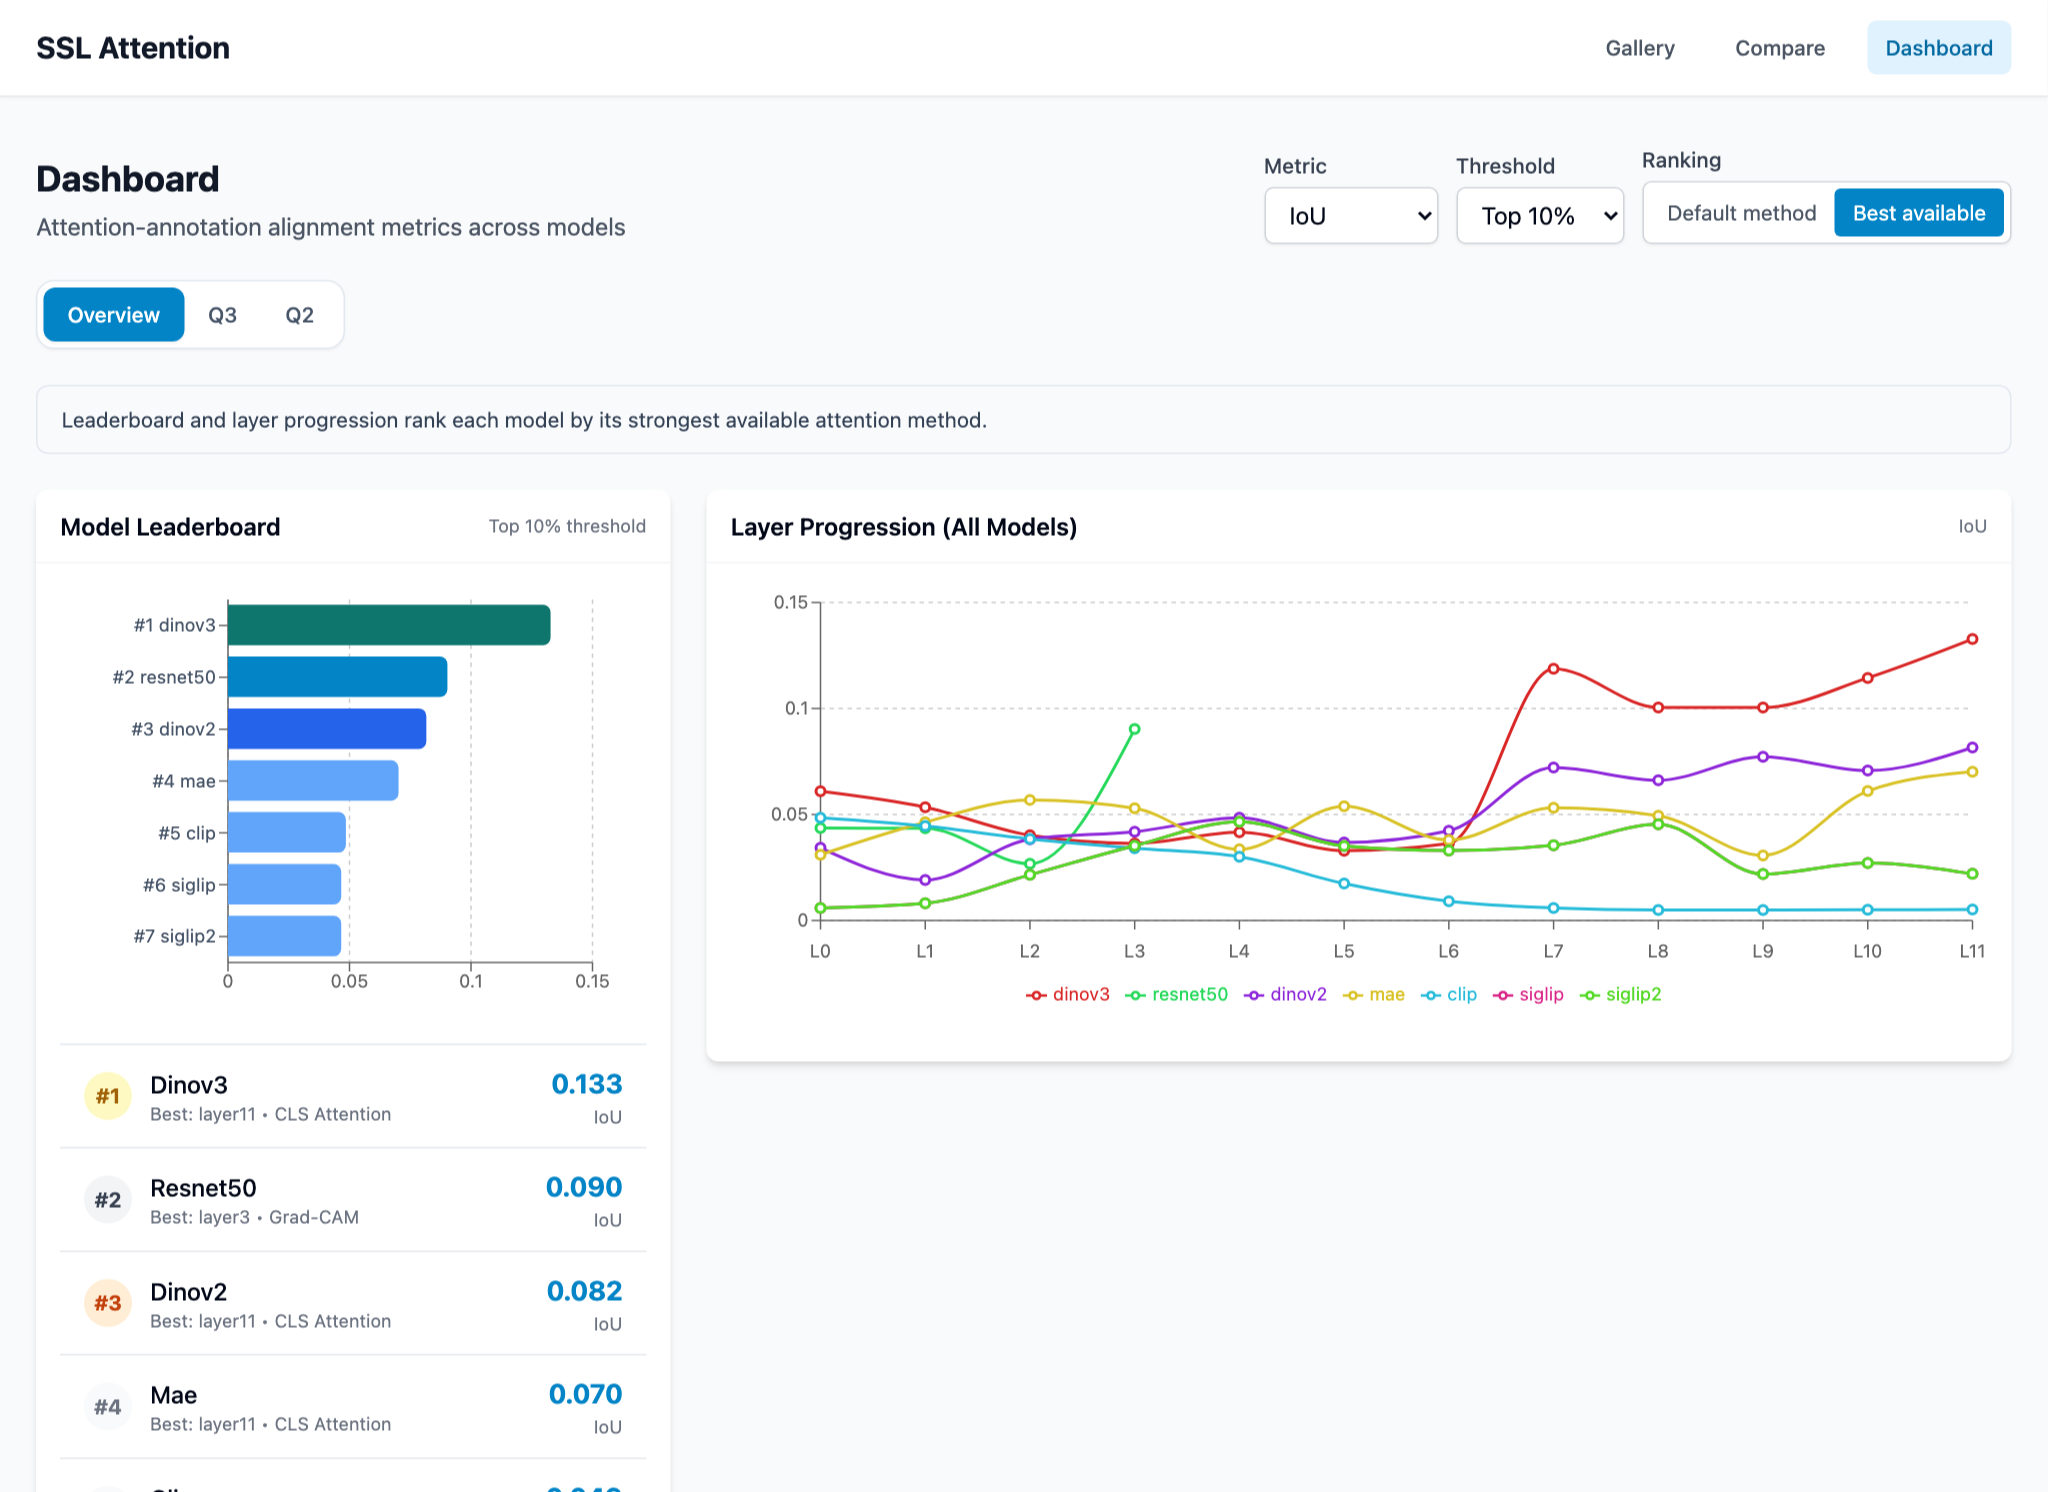
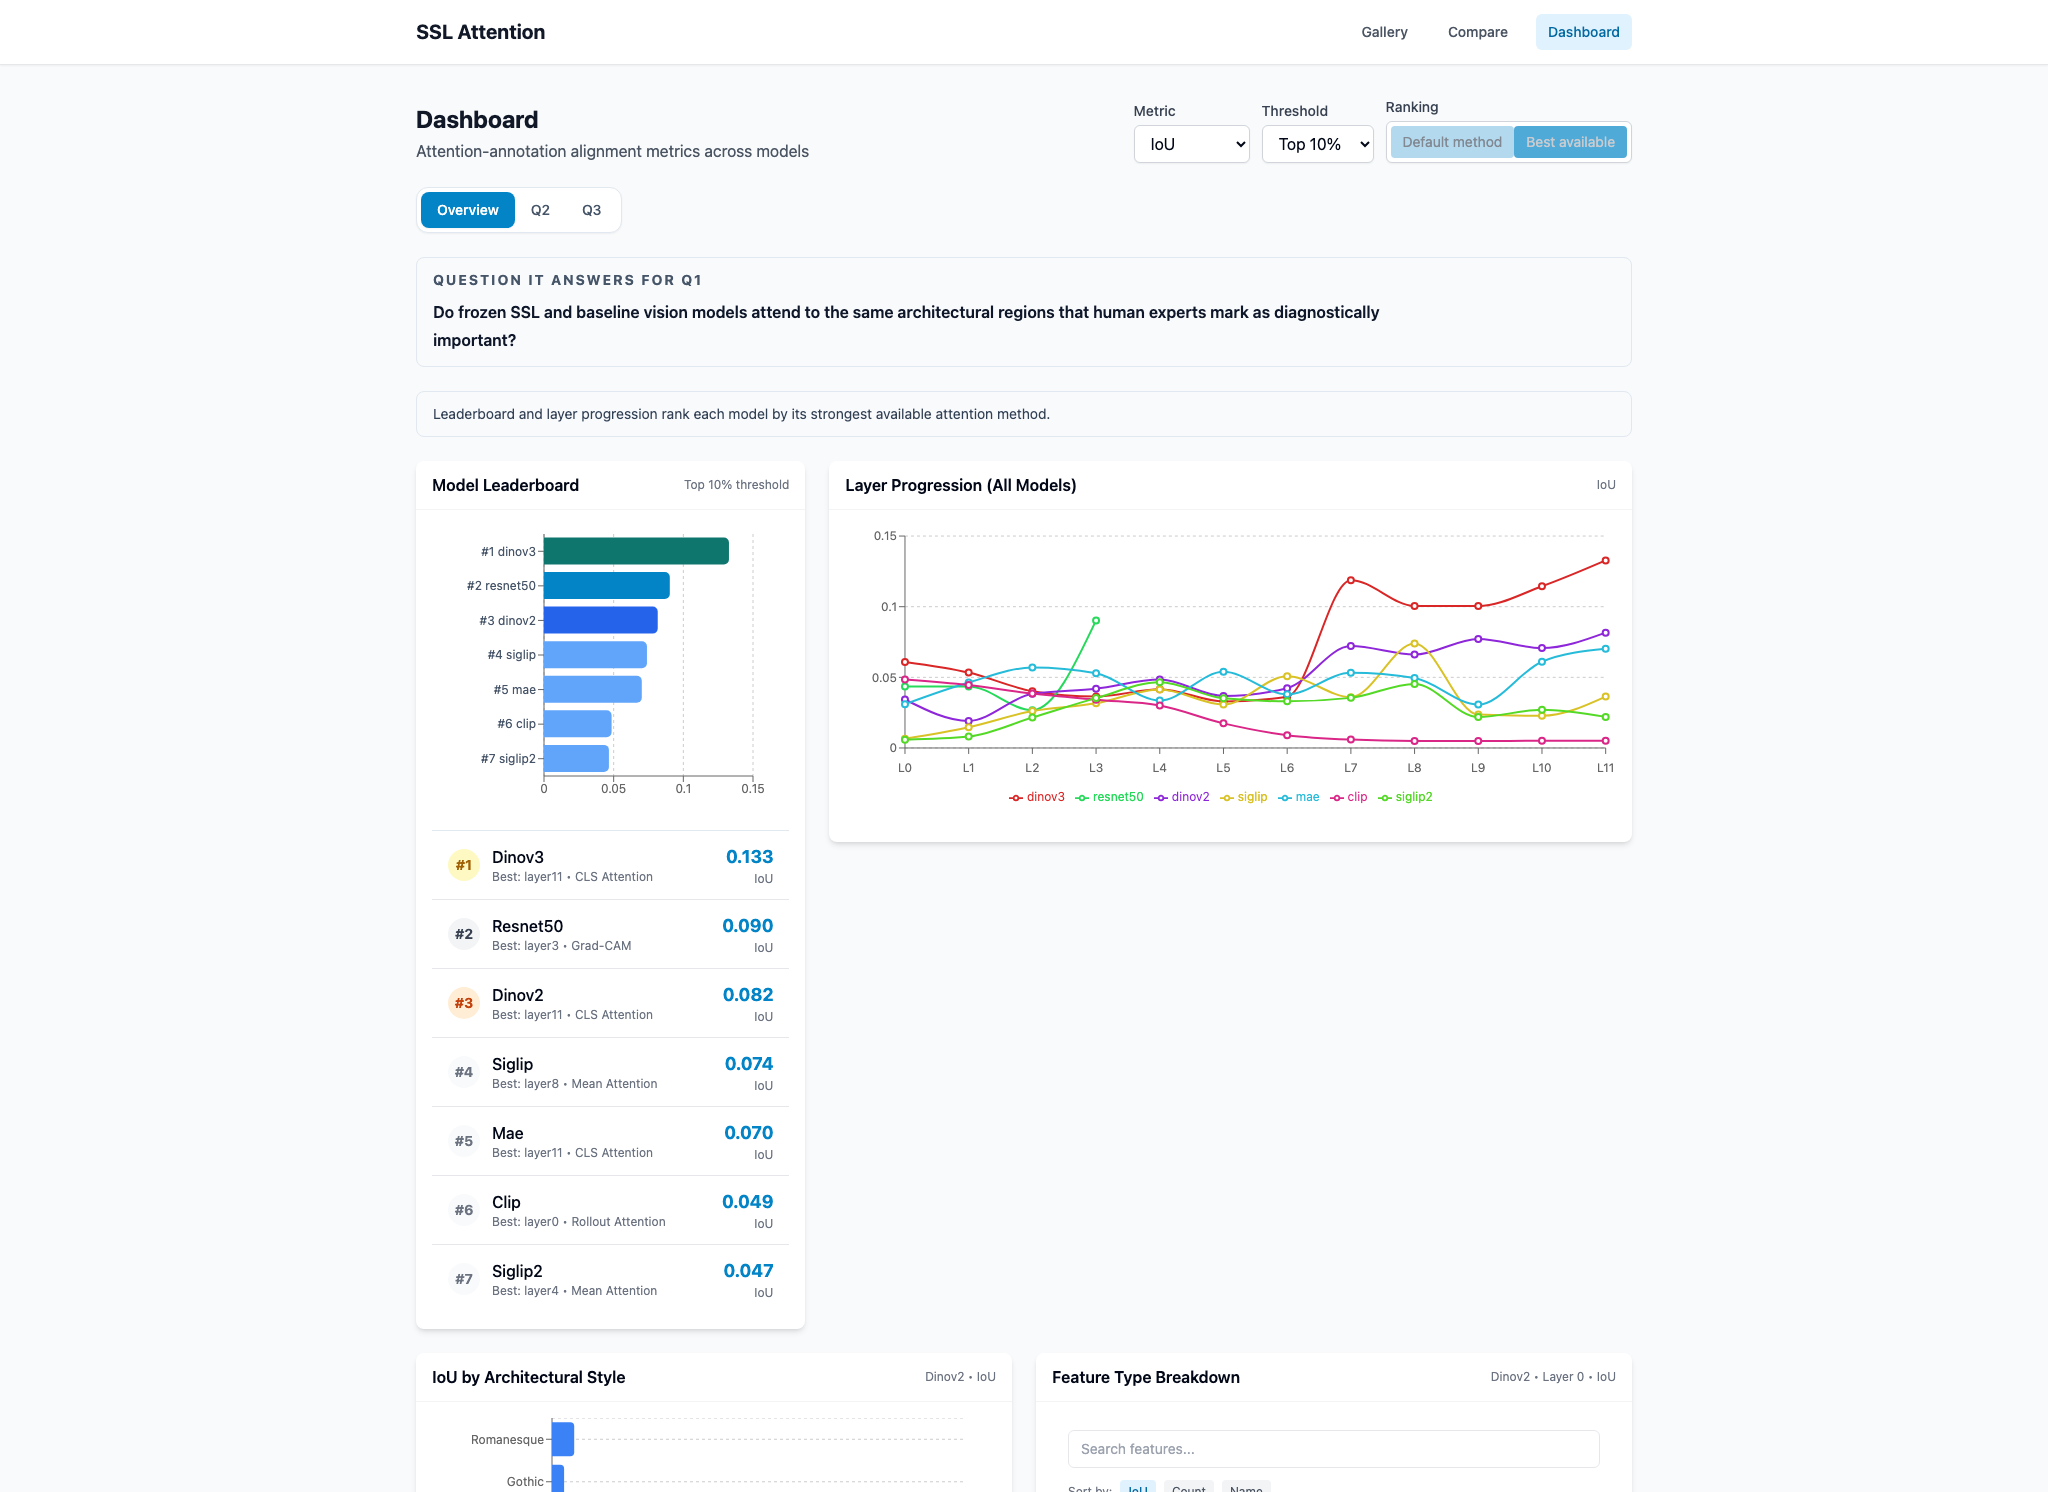
fix: regenerate SigLIP cache and propagate fix through report
Primary fix: SigLIP and SigLIP2 were byte-identical across every
layer and image in the cache, indicating the SigLIP loader had been
falling back to SigLIP2 weights. Re-extracted SigLIP attention with
the correct model loader; SigLIP now peaks at layer8 (IoU=0.0739,
rank 4), distinct from SigLIP2 at layer4 (IoU=0.0466, rank 7).

Downstream updates:
- Q1 leaderboard rows for SigLIP and SigLIP2 updated against
  regenerated metrics_summary.json and metrics.db
- Continuous baseline clearance recomputed for both variants
- Dashboard screenshot regenerated to show new rank order
- Abstract, §9.1 narrative, §9.2 Q2 discussion, §10.1, and §11
  updated to distinguish the two variants throughout
- §9.1 MSE column shows 5dp for SigLIP rows to disambiguate the
  near-tied values (0.01755 vs 0.01745)
- §9.2 narrative adds Cohen's d asymmetry note (SigLIP2 d=0.781
  vs SigLIP d=0.604, despite SigLIP2's lower absolute FT IoU)
- §6 disclosure paragraph added explaining Romanesque 51 vs 54
  count (proposal-level vs multi-label per-style artifact)

diff --git a/docs/core/project_report_final.md b/docs/core/project_report_final.md
@@ -11,9 +11,9 @@ The study is organized around three linked questions:
 2. How Linear Probe, LoRA, and Full fine-tuning change that alignment
 3. Whether individual attention heads exhibit descriptive specialization for different architectural features
 
-For Q1, frozen expert-aligned attention is present but highly model-family dependent: DINOv3 provides the strongest evidence, leading the default-method benchmark on `IoU@90`, Coverage, KL, and EMD, and uniquely clearing all calibrated continuous baselines across MSE, KL, and EMD, while the other frozen models show more partial or metric-specific alignment.
+For Q1, frozen expert-aligned attention is present but highly model-family dependent: DINOv3 provides the strongest evidence, leading the default-method benchmark on `IoU@90`, Coverage, KL, and EMD, and uniquely clearing all calibrated continuous baselines across MSE, KL, and EMD. Base SigLIP is a competitive overlap result at its best mean-attention layer, but SigLIP2 remains weaker on overlap despite having the lowest MSE; the two should not be collapsed into one family-level frozen result.
 
-The Q2 findings are that fine-tuning moves attention unevenly across families: CLIP gains the most (IoU 0.0181→0.0745, Cohen's d≈1.0) but its gains concentrate on prominent Gothic and Romanesque structures; MAE's largest single-style gain is on Renaissance, driven specifically by pediment geometry; and the DINO family preserves its already-strong frozen alignment. Models with different pretraining objectives converge on the same structurally easy images rather than covering complementary subsets, with DINOv3 frozen IoU predicting per-image CLIP Δ at Pearson r=+0.677.
+The Q2 findings are that fine-tuning moves attention unevenly across families: CLIP gains the most (IoU 0.0181→0.0745, Cohen's d≈1.0) but its gains concentrate on prominent Gothic and Romanesque structures; MAE's largest single-style gain is on Renaissance, driven specifically by pediment geometry; the SigLIP variants improve from weaker layer-11 baselines; and the DINO family preserves its already-strong frozen alignment. Models with different pretraining objectives converge on the same structurally easy images rather than covering complementary subsets, with DINOv3 frozen IoU predicting per-image CLIP Δ at Pearson r=+0.677.
 
 For Q3, the per-head analysis suggests sparse descriptive specialization rather than uniform head behavior: DINO-family dominant heads remain stable across adaptation, MAE is partly reshaped, and CLIP reorganizes from earlier frozen attention toward later adapted heads, with the clearest feature alignment appearing on larger architectural structures such as portals, arches, and rose windows. Overall, the project contributes a calibrated way to test whether model attention is spatially compatible with expert evidence, not a claim that attention maps prove expert-like reasoning.
 
@@ -97,6 +97,8 @@ The primary dataset is WikiChurches, a fine-grained architectural-style dataset 
 The report uses two related data scopes. The first is the annotated subset used for attention-alignment evaluation: 139 images with 631 expert bounding boxes. The second is the larger style-labeled pool derived from `churches.json`, which supports linear-probe and fine-tuning experiments. The root documentation cites 9,485 images in the official WikiChurches release. The implementation also documents that a local mirror may expose a slightly different raw file count, but the analysis anchors its description to the official release and to the 139-image expert-annotated subset that defines the alignment benchmark.
 
 The annotation file `building_parts.json` defines an ontology of 106 feature types and stores bounding boxes in normalized `left`, `top`, `width`, `height` coordinates. The code clamps negative left or top coordinates to zero, converts boxes into pixel masks at the target heatmap resolution, and combines multiple boxes per image into a union mask for the primary image-level IoU and Coverage calculations. The project proposal documents the annotated style distribution as Romanesque 51, Gothic 49, Renaissance 22, and Baroque 17, and the implementation maps the corresponding Wikidata style IDs into the working style-classification labels used for training and evaluation.
+
+One count mismatch is intentional. The proposal-level summary lists 51 Romanesque annotated images, while the Q2 per-style artifact reports Romanesque `n=54` because `experiments/scripts/analyze_style_breakdown.py` groups each evaluation image under every mapped style tag in `building_parts.json`. The Q2 per-style rows therefore count style assignments rather than mutually exclusive images, so the displayed style counts can sum above the 139-image evaluation set. The report uses the artifact-level counts in §9.2.1 because those are the exact groups used to compute the reported per-style deltas.
 
 The preprocessing strategy keeps the annotated evaluation images out of the primary fine-tuning train and validation splits. This separation matters because Q2 asks how adaptation changes attention on the same expert-annotated pool, so those images remain evaluation-only in the primary experiment path. For the attention pipeline, the project uses model-appropriate image preprocessing and generates standardized heatmaps at the app's working resolution for metric computation and visualization.
 
@@ -220,12 +222,12 @@ The table below uses the default-method Q1 ranking semantics from `outputs/cache
 | 1 | `dinov3` | Self-distillation with Gram anchoring | `cls` | 0.1327 (layer11) | 0.1373 (layer11) | 0.0270 (layer0) | 2.3247 (layer11) | 0.2600 (layer11) | MSE 4/4; KL 4/4; EMD 4/4 |
 | 2 | `resnet50` | Supervised CNN baseline | `gradcam` | 0.0903 (layer3) | 0.1043 (layer3) | 0.0242 (layer2) | 2.6917 (layer3) | 0.3025 (layer3) | MSE 4/4; KL 2/4; EMD 2/4 |
 | 3 | `dinov2` | Self-distillation | `cls` | 0.0816 (layer11) | 0.1004 (layer11) | 0.0209 (layer0) | 2.6842 (layer11) | 0.2978 (layer11) | MSE 4/4; KL 2/4; EMD 2/4 |
-| 4 | `mae` | Masked autoencoding | `cls` | 0.0702 (layer11) | 0.0904 (layer11) | 0.0483 (layer3) | 2.7562 (layer10) | 0.3177 (layer10) | MSE 3/4; KL 2/4; EMD 1/4 |
-| 5 | `clip` | Language-image contrastive pretraining | `cls` | 0.0485 (layer0) | 0.0851 (layer0) | 0.0211 (layer6) | 2.9122 (layer0) | 0.3261 (layer0) | MSE 4/4; KL 2/4; EMD 1/4 |
-| 6 | `siglip` | Sigmoid language-image contrastive pretraining | `mean` | 0.0466 (layer4) | 0.0705 (layer4) | 0.0175 (layer6) | 3.0710 (layer4) | 0.3538 (layer4) | MSE 4/4; KL 2/4; EMD 0/4 |
-| 7 | `siglip2` | Sigmoid contrastive pretraining with denser grounding components | `mean` | 0.0466 (layer4) | 0.0705 (layer4) | 0.0175 (layer6) | 3.0710 (layer4) | 0.3538 (layer4) | MSE 4/4; KL 2/4; EMD 0/4 |
+| 4 | `siglip` | Sigmoid language-image contrastive pretraining | `mean` | 0.0739 (layer8) | 0.0759 (layer4) | 0.01755 (layer6) | 3.0020 (layer4) | 0.3476 (layer4) | MSE 4/4; KL 2/4; EMD 0/4 |
+| 5 | `mae` | Masked autoencoding | `cls` | 0.0702 (layer11) | 0.0904 (layer11) | 0.0483 (layer3) | 2.7562 (layer10) | 0.3177 (layer10) | MSE 3/4; KL 2/4; EMD 1/4 |
+| 6 | `clip` | Language-image contrastive pretraining | `cls` | 0.0485 (layer0) | 0.0851 (layer0) | 0.0211 (layer6) | 2.9122 (layer0) | 0.3261 (layer0) | MSE 4/4; KL 2/4; EMD 1/4 |
+| 7 | `siglip2` | Sigmoid contrastive pretraining with denser grounding components | `mean` | 0.0466 (layer4) | 0.0705 (layer4) | 0.01745 (layer6) | 3.0710 (layer4) | 0.3538 (layer4) | MSE 4/4; KL 2/4; EMD 0/4 |
 
-Under that more demanding benchmark, DINOv3 is the cleanest Q1 result. It leads the default-method leaderboard on `IoU@90`, Coverage, KL, and EMD. It does not win MSE, where the SigLIP family scores lowest, but that is exactly why the benchmark cannot collapse to one number. The calibrated Q1 analysis shows that DINOv3 is the only model that beats all four naive baselines on all three continuous metrics when each metric is evaluated at that model's best default-method layer. In other words, DINOv3 is not just winning the most convenient metric; it is the model whose alignment survives the broadest set of checks.
+Under that more demanding benchmark, DINOv3 is the cleanest Q1 result. It leads the default-method leaderboard on `IoU@90`, Coverage, KL, and EMD. It does not win MSE, where the extra displayed precision shows SigLIP2 marginally lower than base SigLIP (`0.01745` versus `0.01755`), but that is exactly why the benchmark cannot collapse to one number. The SigLIP rows also show that `siglip` and `siglip2` should not be treated as interchangeable: base SigLIP reaches a competitive `IoU@90` peak of `0.0739` at `layer8`, ahead of MAE and CLIP, while SigLIP2 remains weaker on sharp overlap despite its slightly lower MSE. The calibrated Q1 analysis still shows that DINOv3 is the only model that beats all four naive baselines on all three continuous metrics when each metric is evaluated at that model's best default-method layer. In other words, DINOv3 is not just winning the most convenient metric; it is the model whose alignment survives the broadest set of checks.
 
 #### Gram Anchoring
 
@@ -237,7 +239,7 @@ The dashboard view below shows the same headline pattern in the app's best-avail
 
 ![Local React dashboard screenshot showing DINOv3 ranked first on the IoU best-available leaderboard](assets/q1_dinov3_react_dashboard_iou_best_available.png)
 
-*Figure. Local React app screenshot from `/dashboard` Overview for the `IoU@90` leaderboard. With `Metric = IoU`, `Threshold = Top 10%`, and `Ranking = Best available`, DINOv3 ranks first with IoU = 0.133 at layer11 using CLS attention. The layer-progression panel shows DINOv3's late-layer jump relative to the other models, while the leaderboard ranks each model by its strongest available attention method.*
+*Figure. Local React app screenshot from `/dashboard` Overview for the `IoU@90` leaderboard. With `Metric = IoU`, `Threshold = Top 10%`, and `Ranking = Best available`, DINOv3 ranks first with IoU = 0.133 at layer11 using CLS attention. The leaderboard also shows base SigLIP at rank 4 with IoU = 0.074 at layer8, separated from SigLIP2 at rank 7. The layer-progression panel shows DINOv3's late-layer jump relative to the other models, while the leaderboard ranks each model by its strongest available attention method.*
 
 Two further checks test whether DINOv3's lead is both statistically stable and spatially interpretable:
 
@@ -261,13 +263,13 @@ The multi-metric improvement heatmap compresses the full strategy comparison int
 
 ![Q2 multi-metric improvement heatmap](https://raw.githubusercontent.com/DesmondChoy/ssl_wikichurches/main/outputs/figures/02_all_metrics_improvement_heatmap.png)
 
-*Figure. Sign-normalized Q2 metric deltas for each model and strategy. Blue denotes improvement, red denotes degradation, and asterisks denote significance. The strongest positive clusters appear in CLIP, MAE, and the SigLIP family, while Linear Probe remains at zero by construction.*
+*Figure. Sign-normalized Q2 metric deltas for each model and strategy. Blue denotes improvement, red denotes degradation, and asterisks denote significance. The strongest positive clusters appear in CLIP, MAE, and the SigLIP variants, while Linear Probe remains at zero by construction.*
 
 The most dramatic improvement appears in CLIP. Full fine-tuning raises CLIP's `IoU@90` from `0.0181` to `0.0745` and raises Coverage from `0.0510` to `0.1047`, while also decreasing KL from `3.6873` to `2.6967` and EMD from `0.4096` to `0.3071`. LoRA also improves CLIP substantially, but not as strongly as Full fine-tuning. On WikiChurches, that pattern is meaningful because the diagnostic evidence is not a generic whole-object foreground but a set of localized architectural parts such as portals, arches, towers, and facade details. A model whose frozen attention is comparatively diffuse or global can therefore gain a great deal once the style-classification objective pushes it toward those expert-marked structures. In that sense, CLIP is not just "improving"; it is being retargeted from a weaker frozen spatial prior toward the kind of localized evidence this dataset rewards. That reading is consistent with prior work such as Walmer et al., which shows that supervision regime affects how vision transformers distribute attention.
 
-MAE and the SigLIP family also show meaningful improvements under LoRA and Full fine-tuning, but for reasons that appear slightly different. For MAE, both strategies improve `IoU@90`, Coverage, KL, and EMD, with LoRA producing a particularly strong MSE reduction in the saved artifact. That fits the broader intuition from MAE-style pretraining that reconstruction objectives preserve broad contextual information but do not inherently force the model to privilege the specific regions that experts use for fine-grained style discrimination. For `siglip` and `siglip2`, LoRA and Full both improve `IoU@90`, Coverage, KL, and EMD, though the absolute frozen baseline remains weaker than the DINO-family models on the overlap metrics. A plausible interpretation is that contrastive and multilingual contrastive objectives provide strong semantic features while still leaving substantial room for downstream supervision to sharpen where attention lands inside a structured scene. By contrast, the DINO family is more stable. DINOv2 stays close to preserve across most reported metrics, while DINOv3 largely preserves its strong frozen IoU but shows some threshold-free degradation under certain adapted variants.
+MAE and the SigLIP variants also show meaningful improvements under LoRA and Full fine-tuning, but for reasons that appear slightly different. For MAE, both strategies improve `IoU@90`, Coverage, KL, and EMD, with LoRA producing a particularly strong MSE reduction in the saved artifact. That fits the broader intuition from MAE-style pretraining that reconstruction objectives preserve broad contextual information but do not inherently force the model to privilege the specific regions that experts use for fine-grained style discrimination. For `siglip` and `siglip2`, LoRA and Full both improve `IoU@90`, Coverage, KL, and EMD, though the Q2 analyzed layer (`layer11`) starts from weaker frozen overlap baselines than the DINO family (`0.0364` for `siglip`, `0.0220` for `siglip2`). That is not the same as the Q1 best-layer story, where base SigLIP has a stronger `layer8` peak; it means adaptation is sharpening a relatively weak late-layer signal rather than improving each model's best frozen layer. The SigLIP2 row is a small but useful variant-specific clue: Full fine-tuning still leaves base SigLIP higher in absolute `IoU@90` (`0.0618` versus `0.0519`), but SigLIP2 moves further in standardized-effect terms (`Δ=0.0299`, Cohen's d=`0.781`, versus SigLIP's `Δ=0.0254`, d=`0.604`), consistent with more late-layer adaptation headroom from its weaker starting point and denser grounding components. A plausible interpretation is that sigmoid contrastive pretraining provides strong semantic features while still leaving substantial room for downstream supervision to sharpen where attention lands inside a structured scene. By contrast, the DINO family is more stable. DINOv2 stays close to preserve across most reported metrics, while DINOv3 largely preserves its strong frozen IoU but shows some threshold-free degradation under certain adapted variants.
 
-That divergence is where the paper can say something more specific than "fine-tuning helps some models more than others." On this dataset, self-distillation-based models appear to begin with stronger frozen spatial coherence on expert-marked architectural evidence, while MAE-, CLIP-, and SigLIP-family models appear to benefit more from a task objective that reweights attention toward style-diagnostic parts. That interpretation is consistent with Caron et al. on emergent object-like attention in DINO and with Park et al. on how different self-supervised objectives produce different attention behavior. It also fits the fine-tuning comparison literature: LoRA often captures a substantial share of the improvement without the largest possible shift, while Full fine-tuning has more capacity to help but also more capacity to disturb an already strong frozen spatial prior. Substantively, Q2 is therefore not only about whether alignment rises, but about which combinations of pretraining objective and adaptation method are most compatible with expert-grounded evidence use in a fine-grained architectural domain.
+That divergence is where the paper can say something more specific than "fine-tuning helps some models more than others." On this dataset, self-distillation-based models appear to begin with stronger frozen spatial coherence on expert-marked architectural evidence, while MAE, CLIP, and the SigLIP variants appear to benefit more from a task objective that reweights attention toward style-diagnostic parts. That interpretation is consistent with Caron et al. on emergent object-like attention in DINO and with Park et al. on how different self-supervised objectives produce different attention behavior. It also fits the fine-tuning comparison literature: LoRA often captures a substantial share of the improvement without the largest possible shift, while Full fine-tuning has more capacity to help but also more capacity to disturb an already strong frozen spatial prior. Substantively, Q2 is therefore not only about whether alignment rises, but about which combinations of pretraining objective and adaptation method are most compatible with expert-grounded evidence use in a fine-grained architectural domain.
 
 The preserve/enhance/destroy framing is useful but must be reported carefully. Across the `72` non-linear-probe model-strategy-metric-view combinations shown in the summary figure (`6` models × `2` strategies × `6` metric views), the outcome split is `46` enhance, `16` preserve, and `10` destroy. The six views are `IoU@90`, `IoU@50`, Coverage, MSE, KL, and EMD.
 
@@ -342,7 +344,7 @@ The per-style table invites a second question: are different models improving on
 
 Across the 139 annotated images, DINOv3 frozen IoU predicts CLIP Δ IoU at Pearson r=+0.677 (Spearman ρ=+0.681, both p<0.0001). That is a large effect on a modest sample, and it reframes what CLIP's fine-tuning is doing. The images CLIP "gains" on are not a CLIP-specific niche; they are the images whose expert annotations cover visually prominent, spatially compact regions — regions that any spatially-sensitive model (frozen DINOv3 or fine-tuned CLIP) can align to given the right training signal. The structural barrier is the image, not the model family. Appendix B illustrates this concretely with four representative examples — two structurally easy and two structurally hard — showing the DINOv3 frozen attention heatmap alongside the CLIP frozen-vs-fine-tuned shift map for each.
 
-Extending this to all pairwise per-image Δ correlations produces three clusters. The language cluster — CLIP, SigLIP, SigLIP2 — shows within-cluster correlations of roughly r=0.43–0.58, consistent with these three models sharing the same frozen deficiency (no patch-level spatial pressure during pretraining) and therefore improving on the same images when adaptation supplies spatial signal. MAE is anti-correlated with the language cluster at r≈−0.22 to −0.31, which is consistent with MAE's Renaissance pediment finding: its improvements target a different image subset (Renaissance geometry) rather than the Gothic/Romanesque portals the language cluster responds to. The DINO pair (DINOv2, DINOv3) correlates weakly with each other (r=0.33) and near zero with the language cluster, which is consistent with their Δ being essentially zero everywhere — there is nothing for a correlation to latch onto.
+Extending this to all pairwise per-image Δ correlations produces three clusters. The language cluster — CLIP, SigLIP, SigLIP2 — shows within-cluster correlations of roughly r=0.43–0.58, consistent with these three models improving on overlapping image subsets when adaptation supplies spatial signal. This is a Q2 layer-11 statement rather than a claim that their best frozen layers are equivalent; Q1 separates base SigLIP's stronger `layer8` overlap peak from SigLIP2's weaker `layer4` peak. MAE is anti-correlated with the language cluster at r≈−0.22 to −0.31, which is consistent with MAE's Renaissance pediment finding: its improvements target a different image subset (Renaissance geometry) rather than the Gothic/Romanesque portals the language cluster responds to. The DINO pair (DINOv2, DINOv3) correlates weakly with each other (r=0.33) and near zero with the language cluster, which is consistent with their Δ being essentially zero everywhere — there is nothing for a correlation to latch onto.
 
 The substantive reading is that models with different pretraining objectives converge on the same structurally easy images rather than specializing on complementary subsets. MAE is the single exception, and it covers a disjoint part of the dataset. This is a meaningful finding beyond the aggregate Δ story: it tells the reader that the "hard" images are hard for most of these models in the same way, and that an ensemble of language-cluster and DINO models would be unlikely to add coverage on the hard subset.
 
@@ -447,7 +449,7 @@ The analysis shows that expert alignment depends on the interaction between thre
 
 The clearest cross-question pattern is that models with stronger frozen spatial priors have less room to improve under fine-tuning. DINOv3 is the strongest Q1 case: it leads the default-method benchmark on `IoU@90`, Coverage, KL, and EMD, clears all calibrated continuous baselines, and stays separated from the next-best model in paired comparisons. That result fits the design logic of DINOv3, where [Siméoni et al.](https://arxiv.org/abs/2508.10104) explicitly target dense-feature preservation through Gram anchoring. In this project, the practical effect is not that DINOv3 recognizes every architectural detail, but that its frozen attention already lands well on large, coherent structures such as portals and rose-window-scale features.
 
-CLIP and MAE behave differently. CLIP's global image-text contrastive objective, introduced by [Radford et al.](https://arxiv.org/abs/2103.00020), is not trained with direct patch-level localization pressure. That helps explain why frozen CLIP begins with weak alignment but gains sharply after full fine-tuning, especially on Romanesque and Gothic examples where style evidence is carried by visually prominent named structures. MAE, by contrast, follows the masked-reconstruction setup of [He et al.](https://arxiv.org/abs/2111.06377), and its largest gain appears on Renaissance pediment geometry rather than on the same image subset as the language-image models. The point is not that one pretraining family is universally better. The point is that each family arrives with a different spatial bias, and fine-tuning has the largest effect when that bias does not already match the expert evidence in WikiChurches.
+CLIP and MAE behave differently. CLIP's global image-text contrastive objective, introduced by [Radford et al.](https://arxiv.org/abs/2103.00020), is not trained with direct patch-level localization pressure. That helps explain why frozen CLIP begins with weak alignment but gains sharply after full fine-tuning, especially on Romanesque and Gothic examples where style evidence is carried by visually prominent named structures. MAE, by contrast, follows the masked-reconstruction setup of [He et al.](https://arxiv.org/abs/2111.06377), and its largest gain appears on Renaissance pediment geometry rather than on the same image subset as the language-image models. The SigLIP variants sit between these stories: base SigLIP has a competitive best-layer frozen overlap peak, but both SigLIP variants still have weak late-layer Q2 baselines and improve under adaptation. The point is not that one pretraining family is universally better. The point is that each family arrives with a different spatial bias, and fine-tuning has the largest effect when that bias does not already match the expert evidence in WikiChurches.
 
 Linear Probe is the useful control in this story. Because the backbone stays frozen, the attention metrics stay unchanged. That result is mundane in the best possible way: it confirms that Q2 is measuring representation movement, not a reporting artifact from changing only the classifier head.
 
@@ -469,7 +471,7 @@ Q3 adds one final implication: expert-aligned attention is sparse. The strongest
 
 ## 11. Conclusion
 
-This project asked whether self-supervised vision models attend to the same architectural evidence that human experts mark as diagnostically important. The answer is conditional rather than universal. Using WikiChurches, expert bounding boxes, and a multi-metric alignment framework, the results show that expert-aligned attention depends on the interaction between pretraining objective, adaptation method, and feature geometry. DINOv3 provides the strongest frozen alignment evidence, leading the default-method benchmark on four of five metrics and uniquely clearing all calibrated continuous baselines. CLIP and MAE both gain under full fine-tuning, but redirect attention toward different evidence: CLIP toward prominent Gothic and Romanesque structures, and MAE toward compact Renaissance pediment geometry. Across families, those gains concentrate on structurally easy images rather than complementary subsets. Within the strongest models, the aligned signal concentrates in a small number of heads rather than distributing evenly across the transformer.
+This project asked whether self-supervised vision models attend to the same architectural evidence that human experts mark as diagnostically important. The answer is conditional rather than universal. Using WikiChurches, expert bounding boxes, and a multi-metric alignment framework, the results show that expert-aligned attention depends on the interaction between pretraining objective, adaptation method, and feature geometry. DINOv3 provides the strongest frozen alignment evidence, leading the default-method benchmark on four of five metrics and uniquely clearing all calibrated continuous baselines. Base SigLIP is a stronger frozen overlap result than SigLIP2, but both variants still have late-layer adaptation headroom. CLIP and MAE both gain under full fine-tuning, but redirect attention toward different evidence: CLIP toward prominent Gothic and Romanesque structures, and MAE toward compact Renaissance pediment geometry. Across families, those gains concentrate on structurally easy images rather than complementary subsets. Within the strongest models, the aligned signal concentrates in a small number of heads rather than distributing evenly across the transformer.
 
 The project therefore contributes a calibrated way to test whether model attention is spatially compatible with expert evidence, not a claim that attention maps prove expert-like reasoning. The remaining limits are important: the annotated set is small at 139 images, the boxes are diagnostic rather than exhaustive, the Baroque subset has lower annotation density, and attention alignment remains evidence of spatial correspondence rather than causal understanding. Methodologically, the multi-metric framework, experiment-scoped fine-tuning analysis, and descriptive per-head study are reusable in other settings where expert annotations can ground attention evaluation against domain knowledge.
 

diff --git a/outputs/results/q1_continuous_baseline_summary.md b/outputs/results/q1_continuous_baseline_summary.md
@@ -6,7 +6,7 @@ Baseline source: documented constants from `docs/reference/metrics_methodology.m
 
 ## Headline Findings
 
-- MSE: siglip, siglip2, dinov2, clip, resnet50, dinov3 beat all four baselines.
+- MSE: siglip2, siglip, dinov2, clip, resnet50, dinov3 beat all four baselines.
 - MSE: no models score worse than the random baseline.
 - KL: dinov3 beat all four baselines.
 - KL: no models score worse than the random baseline.
@@ -34,8 +34,8 @@ Baseline references: Random 0.3192, Center Gaussian 0.1770, Saliency Prior 0.095
 
 | Rank | Model | Score | Best layer | Method | Beats |
 | --- | --- | --- | --- | --- | --- |
-| 1 | siglip | 0.0175 | layer6 | mean | Random, Center Gaussian, Saliency Prior, Sobel Edge |
-| 2 | siglip2 | 0.0175 | layer6 | mean | Random, Center Gaussian, Saliency Prior, Sobel Edge |
+| 1 | siglip2 | 0.0175 | layer6 | mean | Random, Center Gaussian, Saliency Prior, Sobel Edge |
+| 2 | siglip | 0.0175 | layer6 | mean | Random, Center Gaussian, Saliency Prior, Sobel Edge |
 | 3 | dinov2 | 0.0209 | layer0 | cls | Random, Center Gaussian, Saliency Prior, Sobel Edge |
 | 4 | clip | 0.0211 | layer6 | cls | Random, Center Gaussian, Saliency Prior, Sobel Edge |
 | 5 | resnet50 | 0.0242 | layer2 | gradcam | Random, Center Gaussian, Saliency Prior, Sobel Edge |
@@ -53,7 +53,7 @@ Baseline references: Random 3.3627, Center Gaussian 2.6317, Saliency Prior 2.611
 | 3 | resnet50 | 2.6917 | layer3 | gradcam | Random, Sobel Edge |
 | 4 | mae | 2.7562 | layer10 | cls | Random, Sobel Edge |
 | 5 | clip | 2.9122 | layer0 | cls | Random, Sobel Edge |
-| 6 | siglip | 3.0710 | layer4 | mean | Random, Sobel Edge |
+| 6 | siglip | 3.0020 | layer4 | mean | Random, Sobel Edge |
 | 7 | siglip2 | 3.0710 | layer4 | mean | Random, Sobel Edge |
 
 ### EMD
@@ -67,7 +67,7 @@ Baseline references: Random 0.3468, Center Gaussian 0.2836, Saliency Prior 0.265
 | 3 | resnet50 | 0.3025 | layer3 | gradcam | Random, Sobel Edge |
 | 4 | mae | 0.3177 | layer10 | cls | Random |
 | 5 | clip | 0.3261 | layer0 | cls | Random |
-| 6 | siglip | 0.3538 | layer4 | mean | None |
+| 6 | siglip | 0.3476 | layer4 | mean | None |
 | 7 | siglip2 | 0.3538 | layer4 | mean | None |
 
 ## Per-model Wrap-up